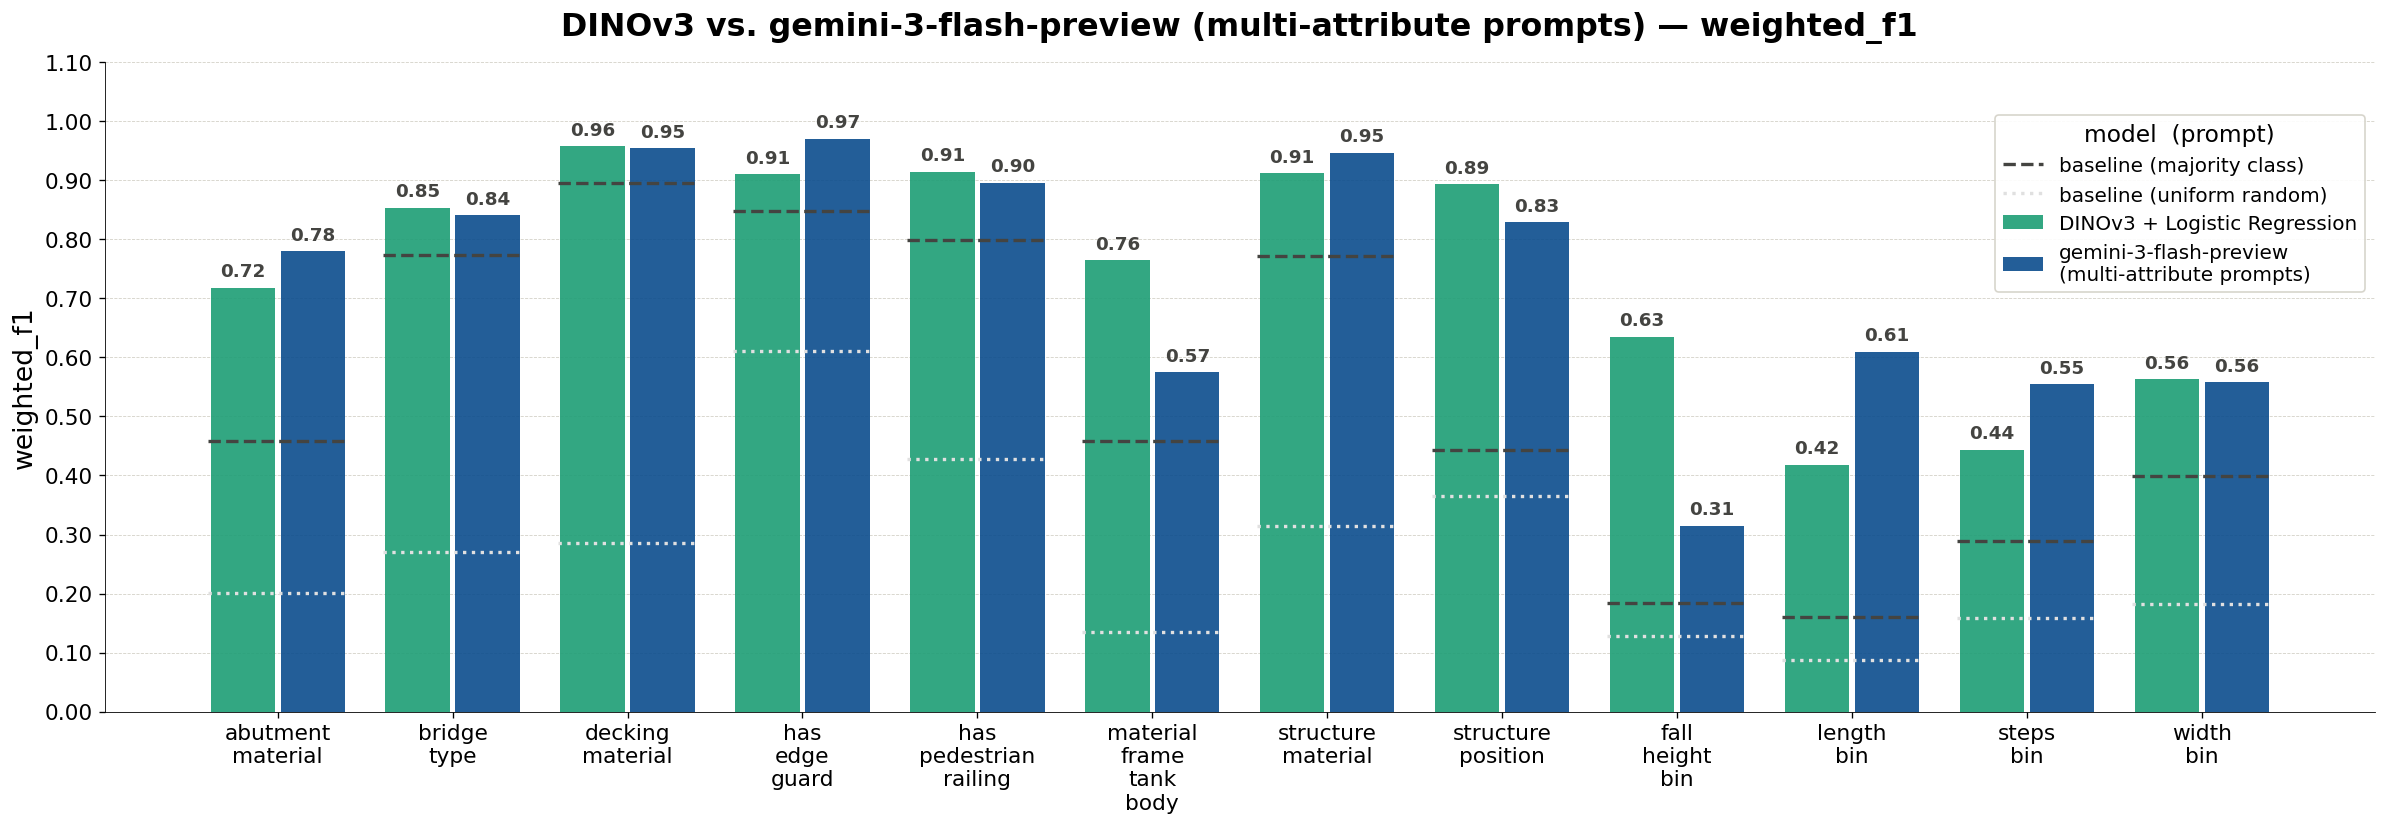
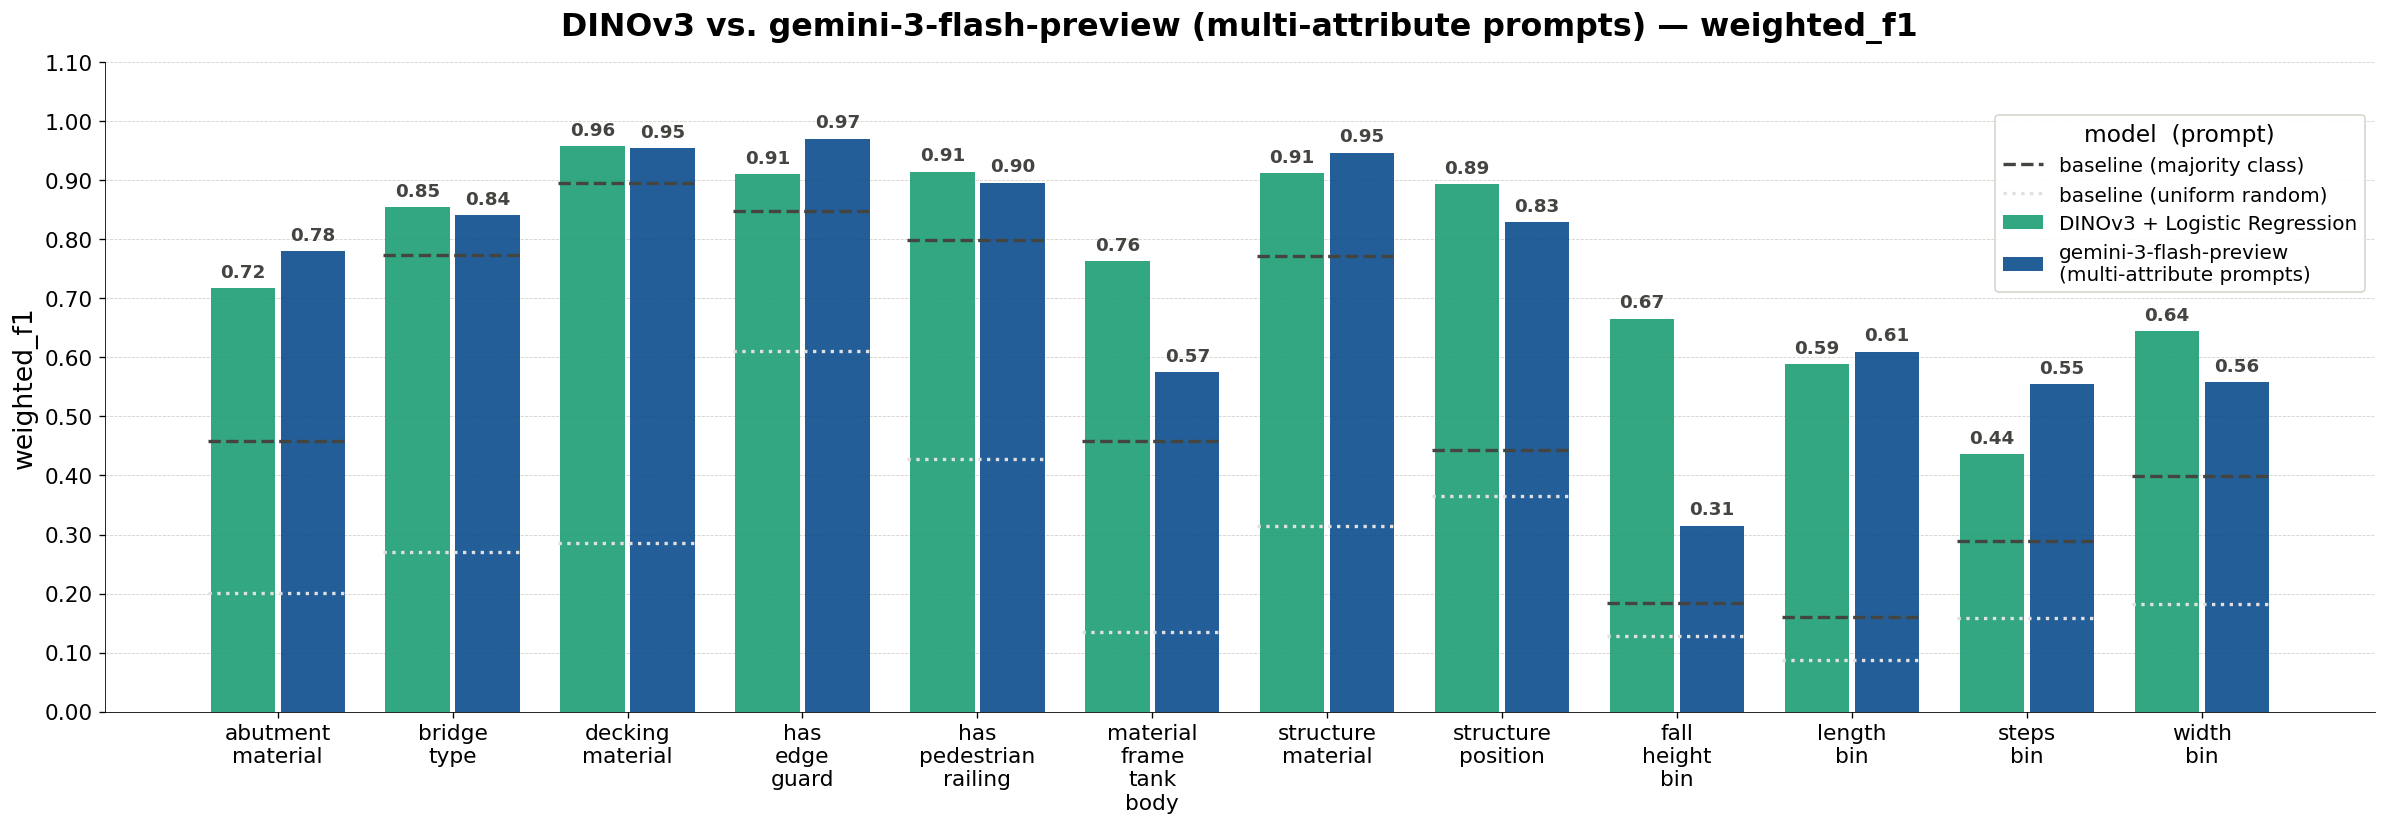
recompute summaries correctly + regenerate plots

diff --git a/src/dinov3_classifier.py b/src/dinov3_classifier.py
@@ -457,26 +457,38 @@ def cross_validate_dinov3_classifier(
 
     folds = pd.DataFrame(all_fold_rows)
     predictions = pd.DataFrame(all_prediction_rows)
-    summary = summarize_dinov3_folds(folds, per_asset_type=per_asset_type)
+    summary = summarize_dinov3_folds(folds, predictions=predictions,
+                                     per_asset_type=per_asset_type)
     return summary, folds, predictions
 
 
 def summarize_dinov3_folds(
     fold_results: pd.DataFrame,
     *,
+    predictions: pd.DataFrame | None = None,
     per_asset_type: bool = False,
 ) -> pd.DataFrame:
-    """Summarize per-fold DINOv3 classifier metrics.
+    """Summarize DINOv3 classifier metrics into one row per attribute.
 
-    With per_asset_type=True the summary is a single combined row per attribute
-    (pooled across asset types), so downstream plotting that expects one row per
-    attribute keeps working. Per-asset-type detail remains in the folds file.
+    The headline F1 metrics (weighted_f1_mean, macro_f1_mean, accuracy_mean) are
+    computed by POOLING all out-of-fold predictions for the attribute and scoring
+    them once, rather than averaging per-fold scores.
+
+    Why pooling, not fold-averaging: with grouped CV — especially per-asset-type
+    training — some folds (or tiny asset-type subsets) contain only a handful of
+    assets. A 1-2 asset fold scores 0.0 or 1.0 with no middle ground, and
+    averaging those degenerate fold scores equally with large folds badly
+    distorts the result. Pooling all out-of-fold predictions and scoring once
+    weights each asset equally and gives the honest aggregate. Every asset has
+    exactly one out-of-fold prediction, so pooling is well-defined.
+
+    The *_std columns are still the spread across folds (a dispersion measure),
+    computed from fold_results.
     """
     if fold_results.empty:
         return pd.DataFrame()
 
-    # Combined-per-attribute grouping (no asset_type in the group keys), so the
-    # output has one summary row per attribute regardless of per_asset_type.
+    # Metadata grouping keys — one summary row per attribute.
     group_columns = [
         "attribute",
         "target_column",
@@ -490,17 +502,39 @@ def summarize_dinov3_folds(
     rows: list[dict[str, object]] = []
     for keys, group in fold_results.groupby(group_columns, dropna=False):
         values = dict(zip(group_columns, keys, strict=True))
+        attribute = values["attribute"]
+
+        # --- Pooled F1 from out-of-fold predictions (the honest aggregate) ---
+        pooled_weighted_f1 = float("nan")
+        pooled_macro_f1 = float("nan")
+        pooled_accuracy = float("nan")
+        if predictions is not None and not predictions.empty:
+            pred_sub = predictions[predictions["attribute"] == attribute].dropna(
+                subset=["true_label", "predicted_label"]
+            )
+            if not pred_sub.empty:
+                y_true = pred_sub["true_label"]
+                y_pred = pred_sub["predicted_label"]
+                pooled_weighted_f1 = f1_score(
+                    y_true, y_pred, average="weighted", zero_division=0
+                )
+                pooled_macro_f1 = f1_score(
+                    y_true, y_pred, average="macro", zero_division=0
+                )
+                pooled_accuracy = accuracy_score(y_true, y_pred)
+
         values.update(
             {
                 "n_folds": int(group["fold"].max()),
                 "n_labels": int(group["n_valid_labels"].sum()),
                 "n_assets": int(group["n_valid_assets"].sum()),
                 "n_features": int(group["n_features"].iloc[0]),
-                "accuracy_mean": group["accuracy"].mean(),
+                # Headline metrics: pooled over all out-of-fold predictions.
+                "accuracy_mean": pooled_accuracy,
                 "accuracy_std": group["accuracy"].std(ddof=0),
-                "weighted_f1_mean": group["weighted_f1"].mean(),
+                "weighted_f1_mean": pooled_weighted_f1,
                 "weighted_f1_std": group["weighted_f1"].std(ddof=0),
-                "macro_f1_mean": group["macro_f1"].mean(),
+                "macro_f1_mean": pooled_macro_f1,
                 "macro_f1_std": group["macro_f1"].std(ddof=0),
             }
         )
